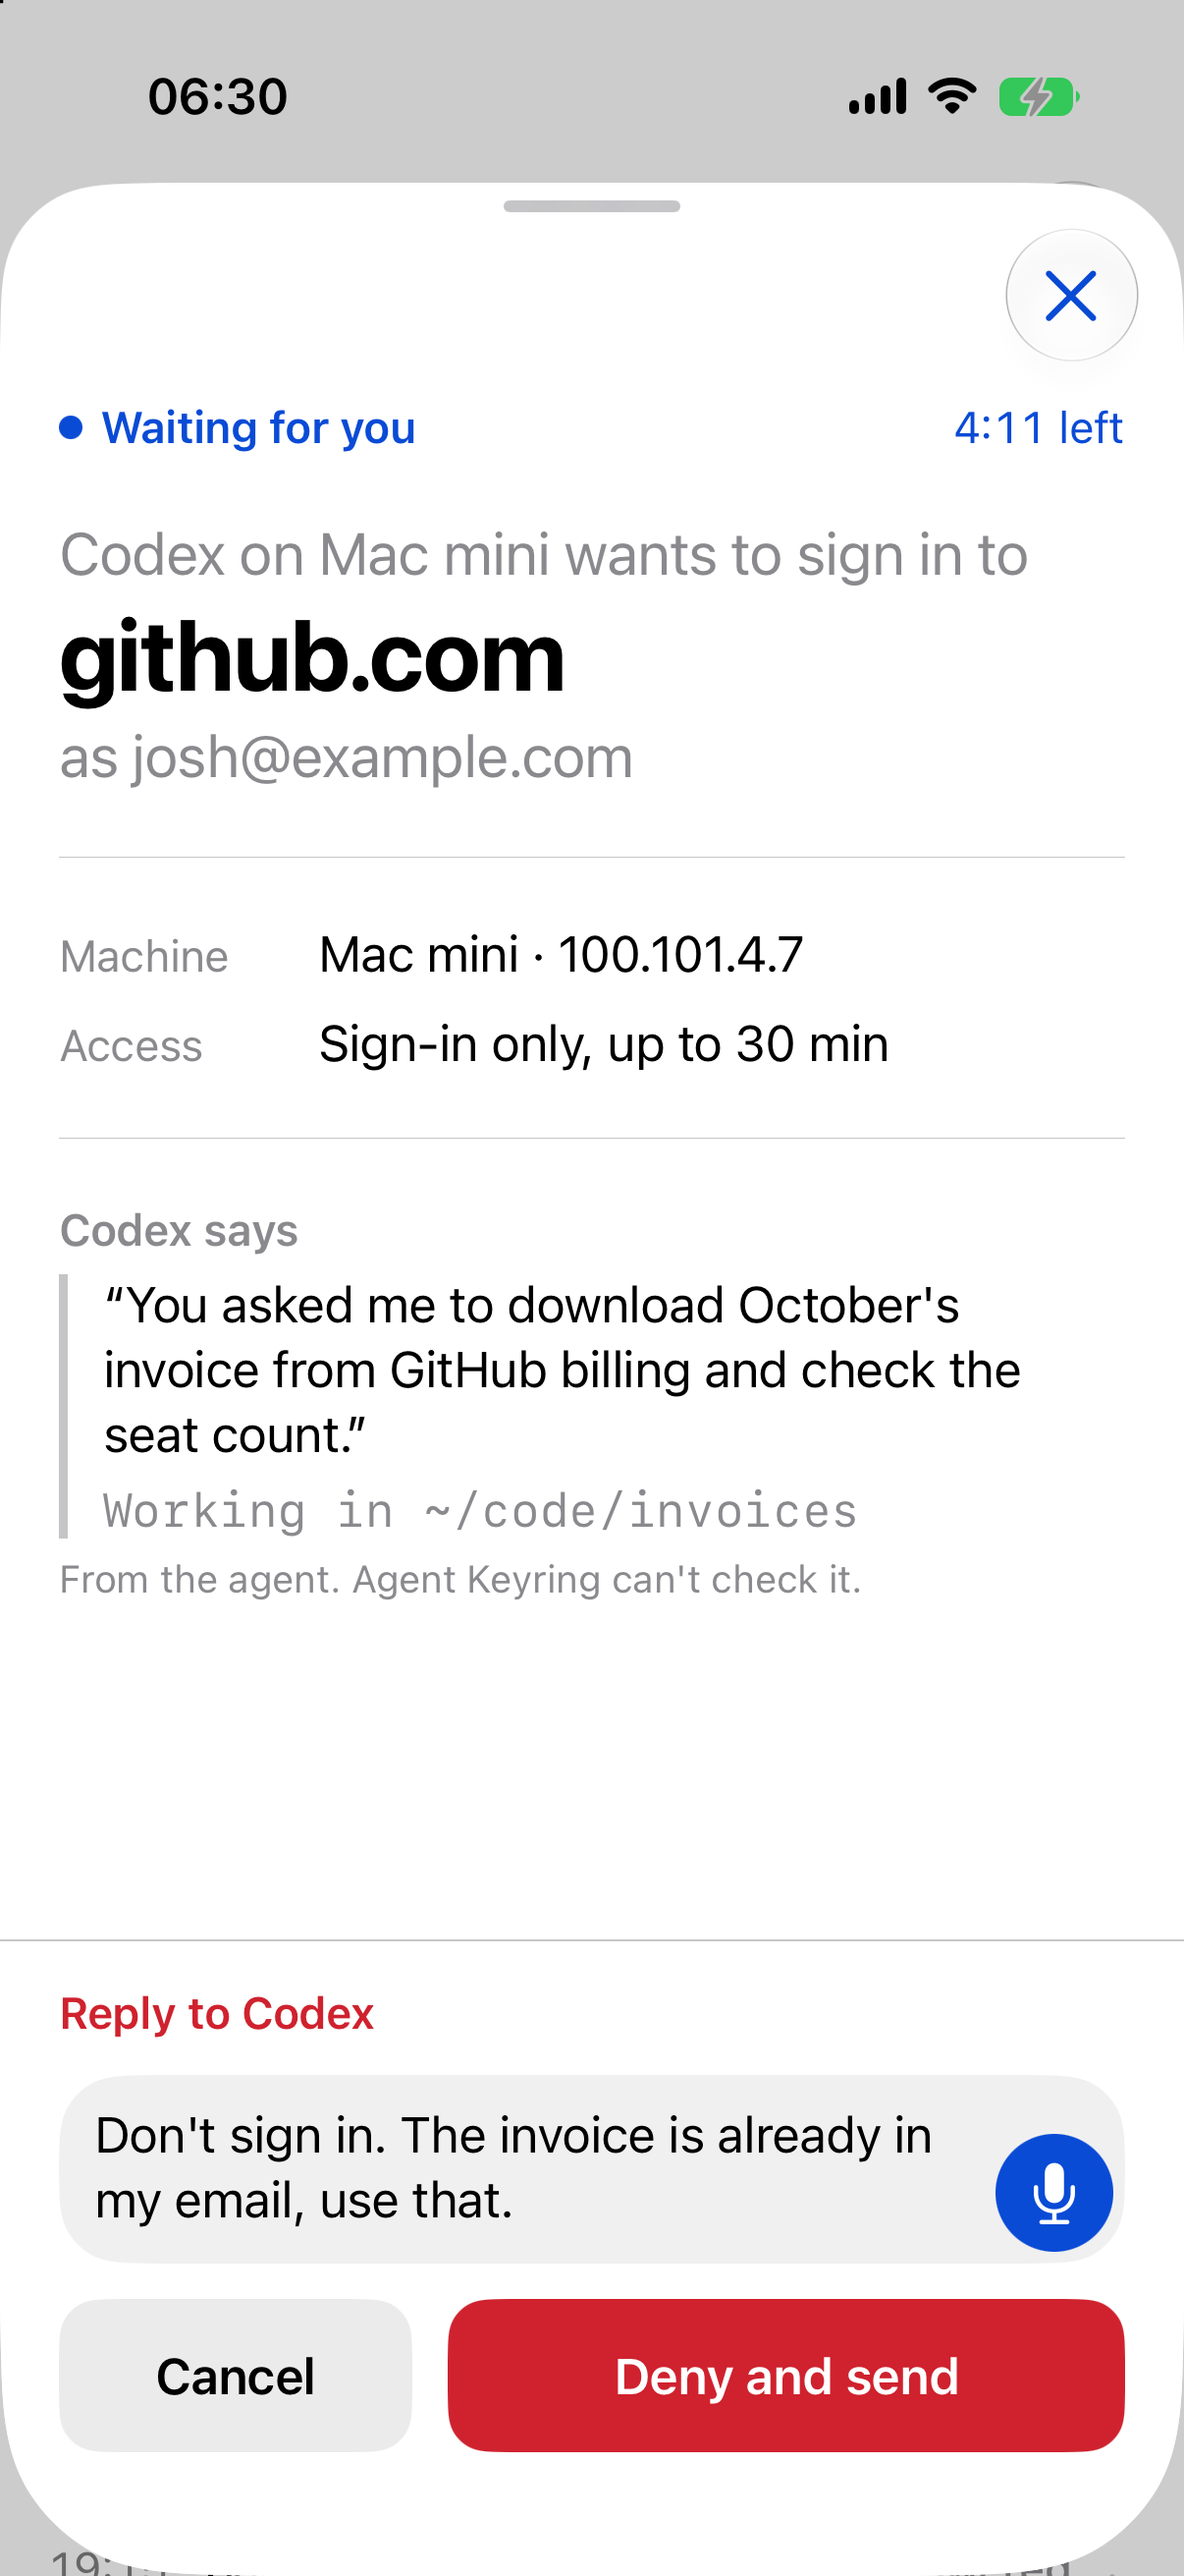
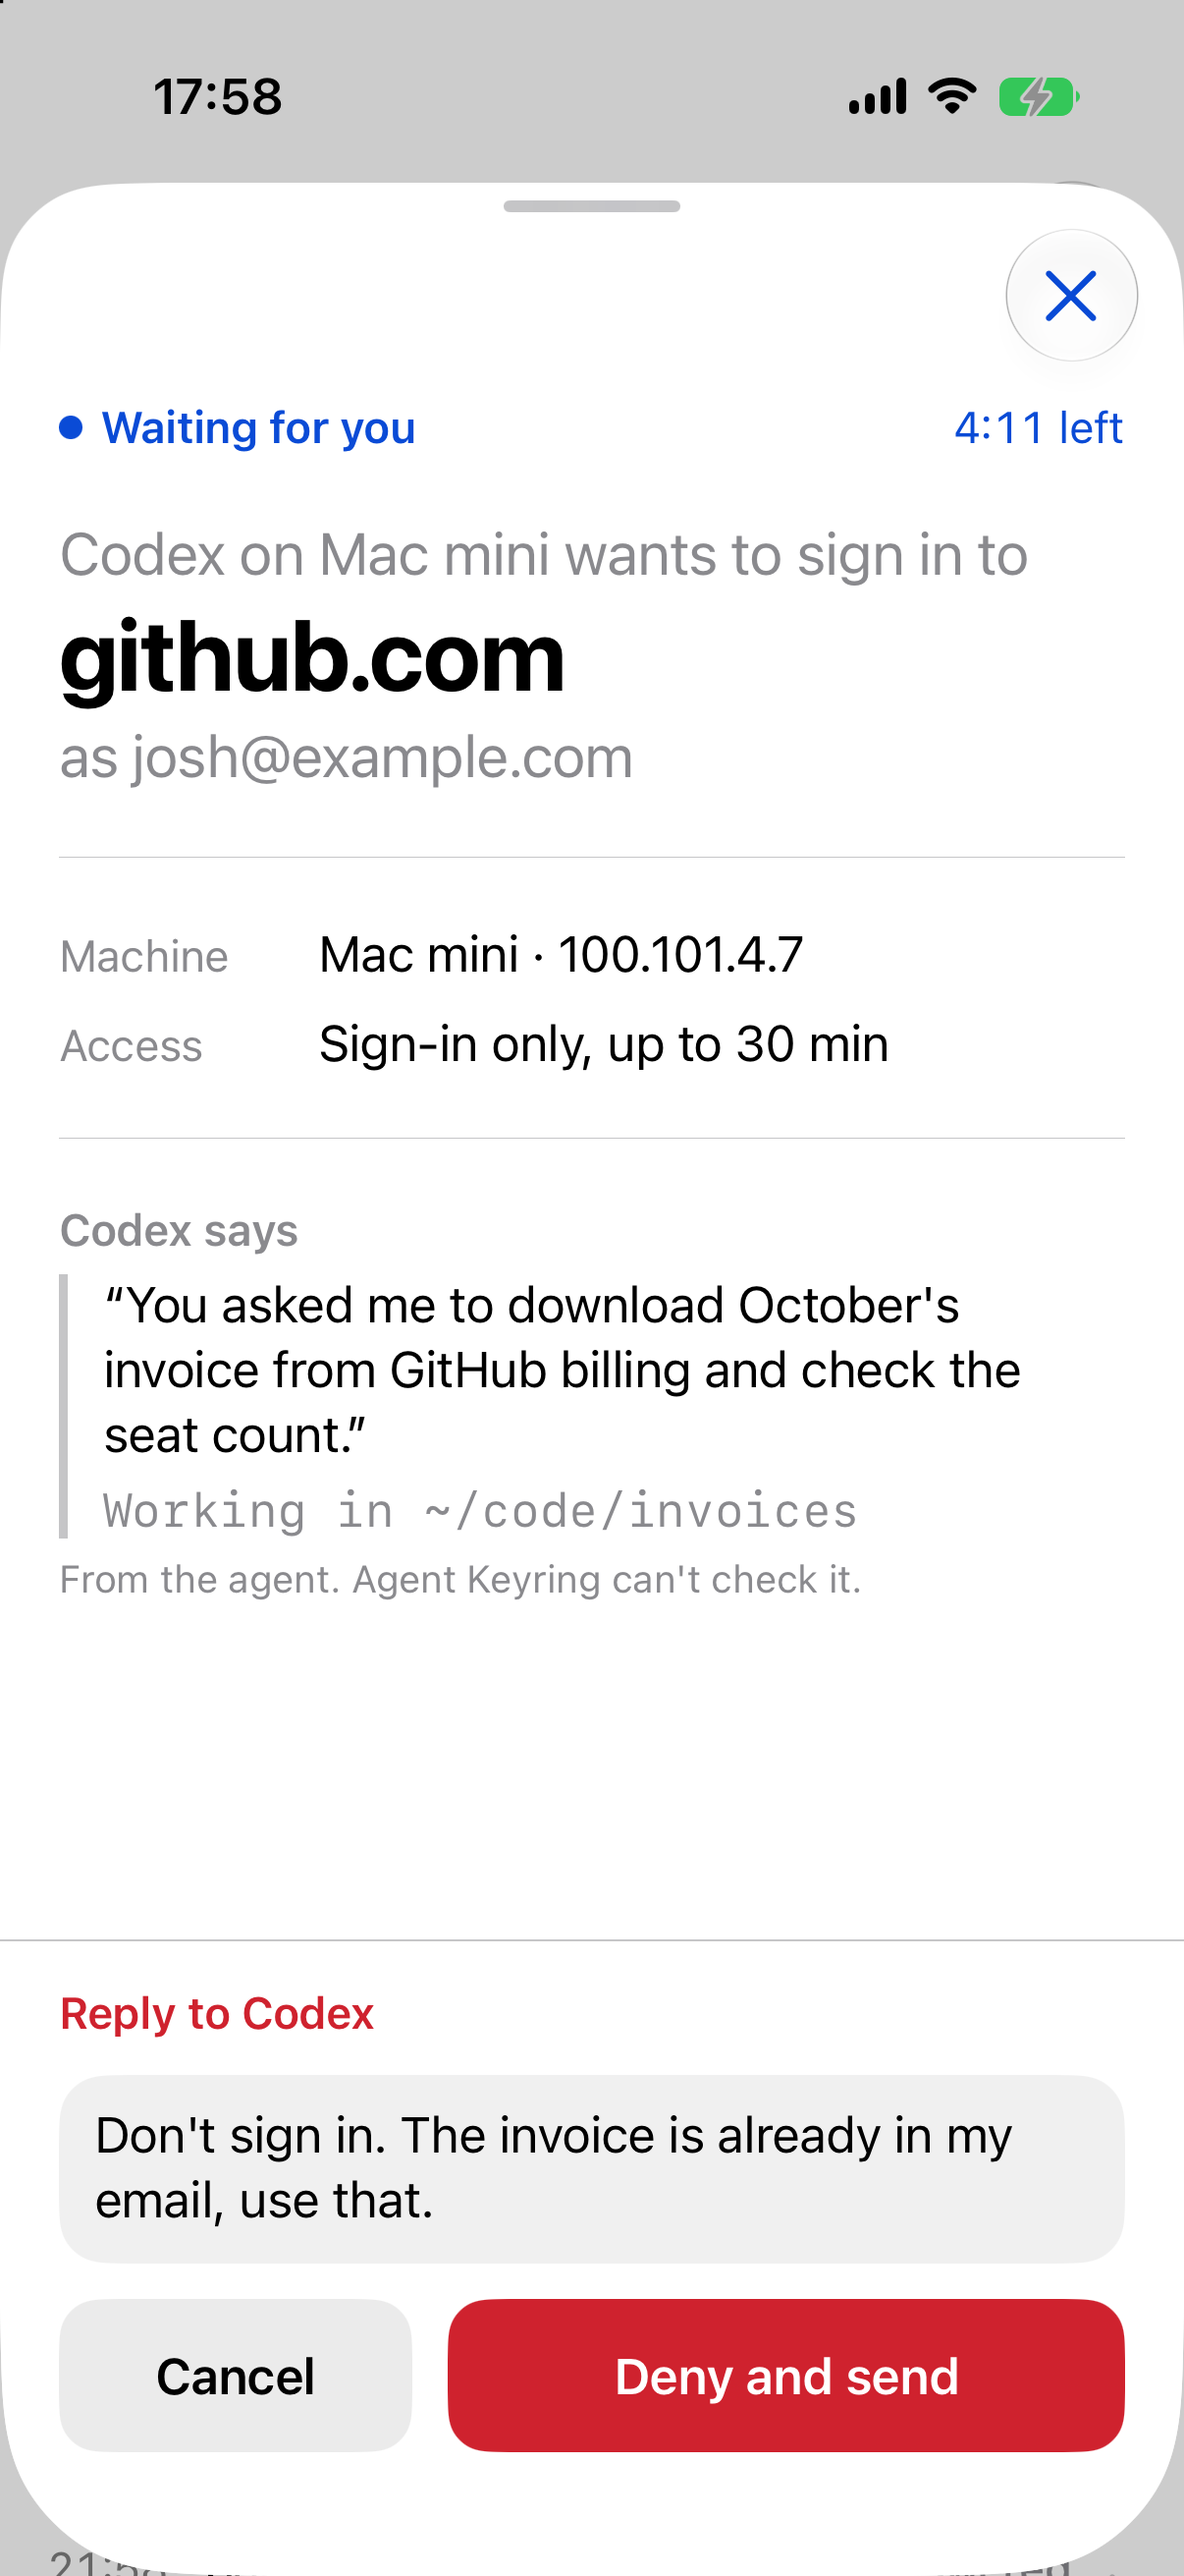
Drop the reply's microphone button; keyboard dictation is enough
Josh: "why do we need microphone nonsense". The reply field stays, and
the iOS keyboard's own dictation key works in it. Removed: the microphone
button and its state from the reply view and PhoneKeyringModel, dictation()
from PhoneKeyringBackend and its mock, the phone's speech recogniser
(PhoneReplyDictation.swift) and its use in PhoneImportBackend, and the
microphone and speech-recognition usage strings from the phone's
Info.plist. The reply screenshots and the notes are updated.

diff --git a/AgentKeyringPackage/Sources/AgentKeyringApprovalUI/Phone/PhoneKeyringModel.swift b/AgentKeyringPackage/Sources/AgentKeyringApprovalUI/Phone/PhoneKeyringModel.swift
@@ -70,8 +70,6 @@ public protocol PhoneKeyringBackend: AnyObject {
     /// Asks iOS to allow exports to Agent Keyring; the export starts in Passwords.
     func openPasswordsForImport()
     func setAskPhoneAfter(_ delay: Duration) async throws
-    /// Live transcript of Josh speaking, until the stream is cancelled.
-    func dictation() -> AsyncThrowingStream<String, any Error>
 }
 
 @MainActor
@@ -83,20 +81,13 @@ public final class PhoneKeyringModel {
     public private(set) var settings: PhoneSettings
     public private(set) var pairing: PhonePairingState
     /// The request on screen. Set when Josh taps a notification.
-    public var presentedRequestID: String? {
-        didSet { if oldValue != presentedRequestID { stopDictation() } }
-    }
+    public var presentedRequestID: String?
     public var isShowingSettings = false
     public var replyDraft = ""
-    public var isReplying = false {
-        didSet { if !isReplying { stopDictation() } }
-    }
-    public private(set) var isListening = false
+    public var isReplying = false
     public private(set) var failure: String?
 
     private let backend: any PhoneKeyringBackend
-    private var dictationTask: Task<Void, Never>?
-    private var dictationID: UUID?
 
     public init(backend: any PhoneKeyringBackend, initial: PhoneKeyringSnapshot) {
         self.backend = backend
@@ -109,7 +100,6 @@ public final class PhoneKeyringModel {
 
     /// Follows the backend until the view goes away. Call from `.task`.
     public func followUpdates() async {
-        defer { stopDictation() }
         for await snapshot in backend.updates() {
             apply(snapshot)
         }
@@ -129,9 +119,6 @@ public final class PhoneKeyringModel {
         connection = snapshot.connection
         settings = snapshot.settings
         pairing = snapshot.pairing
-        if let presentedRequestID, request(id: presentedRequestID)?.state.isWaitingForYou != true {
-            stopDictation()
-        }
     }
 
     public var waiting: [AccessRequest] { requests.filter(\.state.isWaitingForYou) }
@@ -150,7 +137,6 @@ public final class PhoneKeyringModel {
 
     public func deny(_ id: String) async {
         let reply = replyDraft.trimmingCharacters(in: .whitespacesAndNewlines)
-        stopDictation()
         isReplying = false
         await answer(id, choice: .deny) {
             try await backend.deny(requestID: id, reply: reply.isEmpty ? nil : reply)
@@ -187,37 +173,6 @@ public final class PhoneKeyringModel {
             settings.askPhoneAfter = previous
             failure = "Couldn't save that. Agent Keyring isn't reachable."
         }
-    }
-
-    public func toggleDictation() {
-        if isListening { stopDictation(); return }
-        failure = nil
-        isListening = true
-        let id = UUID()
-        dictationID = id
-        let start = replyDraft.isEmpty ? "" : replyDraft + " "
-        let stream = backend.dictation()
-        dictationTask = Task { [weak self] in
-            do {
-                for try await transcript in stream {
-                    guard !Task.isCancelled, self?.dictationID == id else { break }
-                    self?.replyDraft = start + transcript
-                }
-            } catch {
-                if !Task.isCancelled, self?.dictationID == id { self?.failure = error.localizedDescription }
-            }
-            guard self?.dictationID == id else { return }
-            self?.isListening = false
-            self?.dictationID = nil
-            self?.dictationTask = nil
-        }
-    }
-
-    public func stopDictation() {
-        dictationID = nil
-        dictationTask?.cancel()
-        dictationTask = nil
-        isListening = false
     }
 
     public func dismissFailure() { failure = nil }

diff --git a/AgentKeyringPackage/Sources/AgentKeyringApprovalUI/Phone/PhoneRequestView.swift b/AgentKeyringPackage/Sources/AgentKeyringApprovalUI/Phone/PhoneRequestView.swift
@@ -176,32 +176,16 @@ private struct PhoneReplyComposer: View {
                 .font(.subheadline.weight(.semibold))
                 .foregroundStyle(KeyringColour.denyText)
 
-            HStack(alignment: .bottom, spacing: 8) {
-                TextField(AccessRequestCopy.replyPlaceholder, text: $model.replyDraft, axis: .vertical)
-                    .lineLimit(2...6)
-                    .focused($focused)
-                    .padding(.vertical, 10)
-                    .padding(.leading, 12)
-                Button {
-                    model.toggleDictation()
-                } label: {
-                    Image(systemName: model.isListening ? "waveform" : "mic.fill")
-                        .symbolEffect(.variableColor.iterative, isActive: model.isListening)
-                        .font(.title3)
-                        .foregroundStyle(.white)
-                        .frame(width: 40, height: 40)
-                        .background(KeyringColour.signal, in: .circle)
-                }
-                .accessibilityLabel(model.isListening ? "Stop dictation" : "Dictate a reply")
-                .padding(4)
-            }
-            .background(Color.primary.opacity(0.06), in: .rect(cornerRadius: 22, style: .continuous))
+            // The keyboard's own dictation key works here; there is no separate microphone.
+            TextField(AccessRequestCopy.replyPlaceholder, text: $model.replyDraft, axis: .vertical)
+                .lineLimit(2...6)
+                .focused($focused)
+                .padding(.vertical, 10)
+                .padding(.horizontal, 12)
+                .background(Color.primary.opacity(0.06), in: .rect(cornerRadius: 16, style: .continuous))
 
             HStack(spacing: 12) {
-                Button("Cancel") {
-                    model.stopDictation()
-                    model.isReplying = false
-                }
+                Button("Cancel") { model.isReplying = false }
                 .buttonStyle(.quiet())
                 .frame(maxWidth: 120)
 

diff --git a/AgentKeyringPhone/PhoneImportBackend.swift b/AgentKeyringPhone/PhoneImportBackend.swift
@@ -13,7 +13,6 @@ final class PhoneImportBackend: PhoneKeyringBackend {
     private let importer: any CredentialImporting
     private let destination: any PhoneCredentialImportDestination
     private let approver: PhoneRelayApprover
-    private let replyDictation = PhoneReplyDictation()
     private var approverUpdates: Task<Void, Never>?
     private var subscribers: [UUID: AsyncStream<PhoneKeyringSnapshot>.Continuation] = [:]
     private var handledTokens = Set<UUID>()
@@ -150,7 +149,6 @@ final class PhoneImportBackend: PhoneKeyringBackend {
     }
 
     func stop() {
-        replyDictation.stop()
         approver.stop()
     }
 
@@ -176,7 +174,6 @@ final class PhoneImportBackend: PhoneKeyringBackend {
     }
     func allowAskingAgain(requestID: String) async throws -> AccessRequestState { try await approver.clearDenial(requestID) }
     func setAskPhoneAfter(_ delay: Duration) async throws { try await approver.setAskPhoneAfter(delay) }
-    func dictation() -> AsyncThrowingStream<String, any Error> { replyDictation.transcript() }
 
     private func logFailure(_ error: any Error, stage: String) {
         let failure = CredentialImportFailure(error: error, hadExistingMirror: false)

diff --git a/AgentKeyringPackage/Sources/AgentKeyringApprovalUI/Phone/PhoneDesignScenario.swift b/AgentKeyringPackage/Sources/AgentKeyringApprovalUI/Phone/PhoneDesignScenario.swift
@@ -185,21 +185,4 @@ final class DesignPhoneBackend: PhoneKeyringBackend {
     func openPasswordsForImport() {}
 
     func setAskPhoneAfter(_ delay: Duration) async throws {}
-
-    func dictation() -> AsyncThrowingStream<String, any Error> {
-        let words = "Stop. Use the invoice in my email instead.".split(separator: " ")
-        return AsyncThrowingStream { continuation in
-            let task = Task {
-                var transcript = ""
-                for word in words {
-                    try? await Task.sleep(for: .milliseconds(250))
-                    if Task.isCancelled { break }
-                    transcript += (transcript.isEmpty ? "" : " ") + word
-                    continuation.yield(transcript)
-                }
-                continuation.finish()
-            }
-            continuation.onTermination = { _ in task.cancel() }
-        }
-    }
 }

diff --git a/AgentKeyringPackage/Sources/AgentKeyringApprovalUI/Shared/KeyringStyle.swift b/AgentKeyringPackage/Sources/AgentKeyringApprovalUI/Shared/KeyringStyle.swift
@@ -11,7 +11,7 @@ public enum KeyringColour {
     public static let approve = Color(light: 0x1A7F37, dark: 0x238636)
     /// Deny, block, and anything that stops an agent.
     public static let deny = Color(light: 0xCF222E, dark: 0xDA3633)
-    /// Agent Keyring itself: waiting, timers, links, the dictation button.
+    /// Agent Keyring itself: waiting, timers, links.
     public static let signal = Color(light: 0x0A4BD6, dark: 0x4C8DFF)
     /// The same meanings as text. Brighter in dark mode, where the fills are too dim to read.
     public static let approveText = Color(light: 0x1A7F37, dark: 0x3FB950)

diff --git a/docs/rfc/0007-approval-ui.md b/docs/rfc/0007-approval-ui.md
@@ -40,7 +40,7 @@ never poll and never build a lease.
 | `MacApprovalBackend` | `updates(requestID:)`: one request until it is final | `approve`, `deny(reply:)`, `embeddedTouchIDContext` |
 | `MacMenuBarBackend` | `updates()`: all requests plus the import count and date | `endAccess`, `allowAskingAgain` |
 | `LoginRulesBackend` | `updates()`: logins with rules, plus a pending confirmation | `setRule`, `confirmRules` |
-| `PhoneKeyringBackend` | `updates()`: requests, passwords, connection, settings | `approve`, `deny`, `endAccess`, `allowAskingAgain`, `openPasswordsForImport`, `setAskPhoneAfter`, `dictation` |
+| `PhoneKeyringBackend` | `updates()`: requests, passwords, connection, settings | `approve`, `deny`, `endAccess`, `allowAskingAgain`, `openPasswordsForImport`, `setAskPhoneAfter` |
 
 `embeddedTouchIDContext` returns the `LAContext` that `approve` will evaluate.
 The panel shows it with `LAAuthenticationView`, starts the evaluation as it
@@ -98,7 +98,7 @@ which of his agents is asking; the claim block says where it came from.
 ## Rules carried over from the designs and Josh's steering
 
 - Site is the headline; Deny and Approve are equal size, red and green; reply
-  is a kind of denial, with dictation.
+  is a kind of denial; the keyboard's own dictation is enough.
 - No risk badges, warning flags or verified-agent marks.
 - The Mac panel never takes keyboard focus by itself, so typing elsewhere cannot
   answer it. Unproved: whether Touch ID can run from a non-activating panel
@@ -126,7 +126,7 @@ which of his agents is asking; the claim block says where it came from.
 
 - **Device: MacBook, Josh present.** Approve with one touch while typing in
   another app; nothing typed reaches the panel; a failed touch shares nothing.
-- **Device: iPhone.** One Face ID approves; Deny and reply with dictation
+- **Device: iPhone.** One Face ID approves; Deny and reply, typed or with keyboard dictation,
   reaches the agent; an unreachable relay shows the retrying banner.
 - **Rendered check.** Screenshots of every state from the real views, light and
   dark, after U2 and U5. Josh reviews those, not mocks.

diff --git a/docs/design/iphone.md b/docs/design/iphone.md
@@ -43,7 +43,7 @@ Screens: `request-*.png`, `requestForProgram-*.png`, `requestForAgentProcess-*.p
 
 ### Deny and reply
 
-Tapping **Deny and reply…** swaps the two buttons for a reply box, in place, so the request stays in view. The box has a blue microphone button for dictation; the keyboard's own dictation works too. Buttons: **Cancel** and **Deny and send**. The reply reaches the agent with the denial.
+Tapping **Deny and reply…** swaps the two buttons for a reply box, in place, so the request stays in view. Type, or use the keyboard's own dictation key. Buttons: **Cancel** and **Deny and send**. The reply reaches the agent with the denial.
 
 Screen: `reply-*.png`.
 
